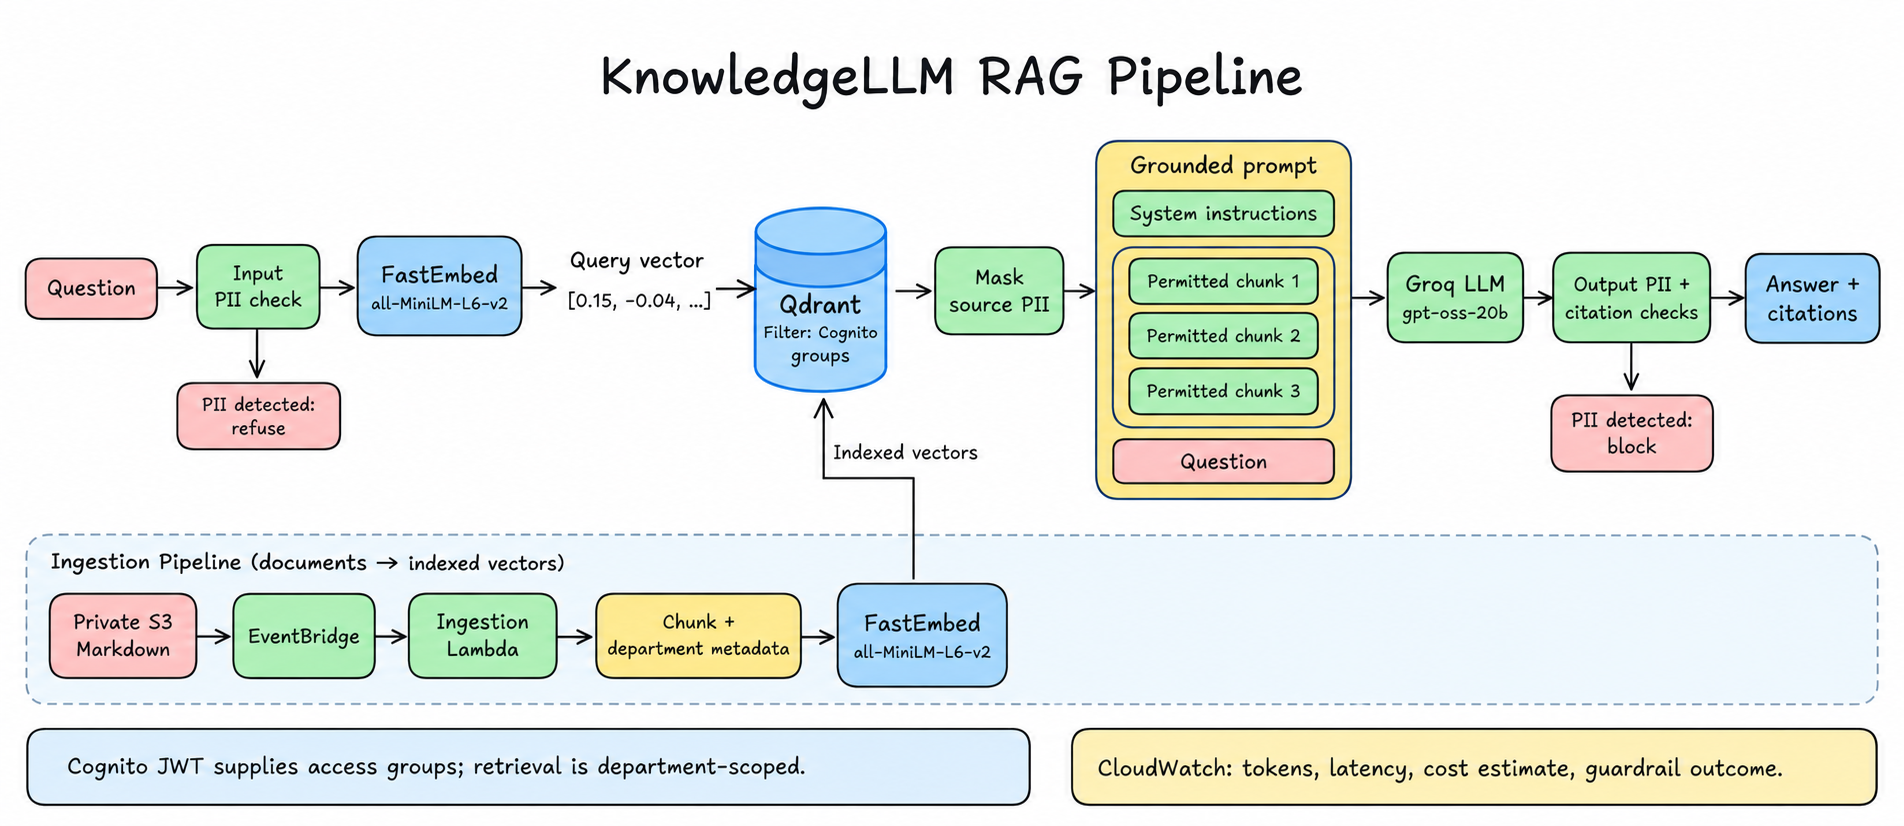
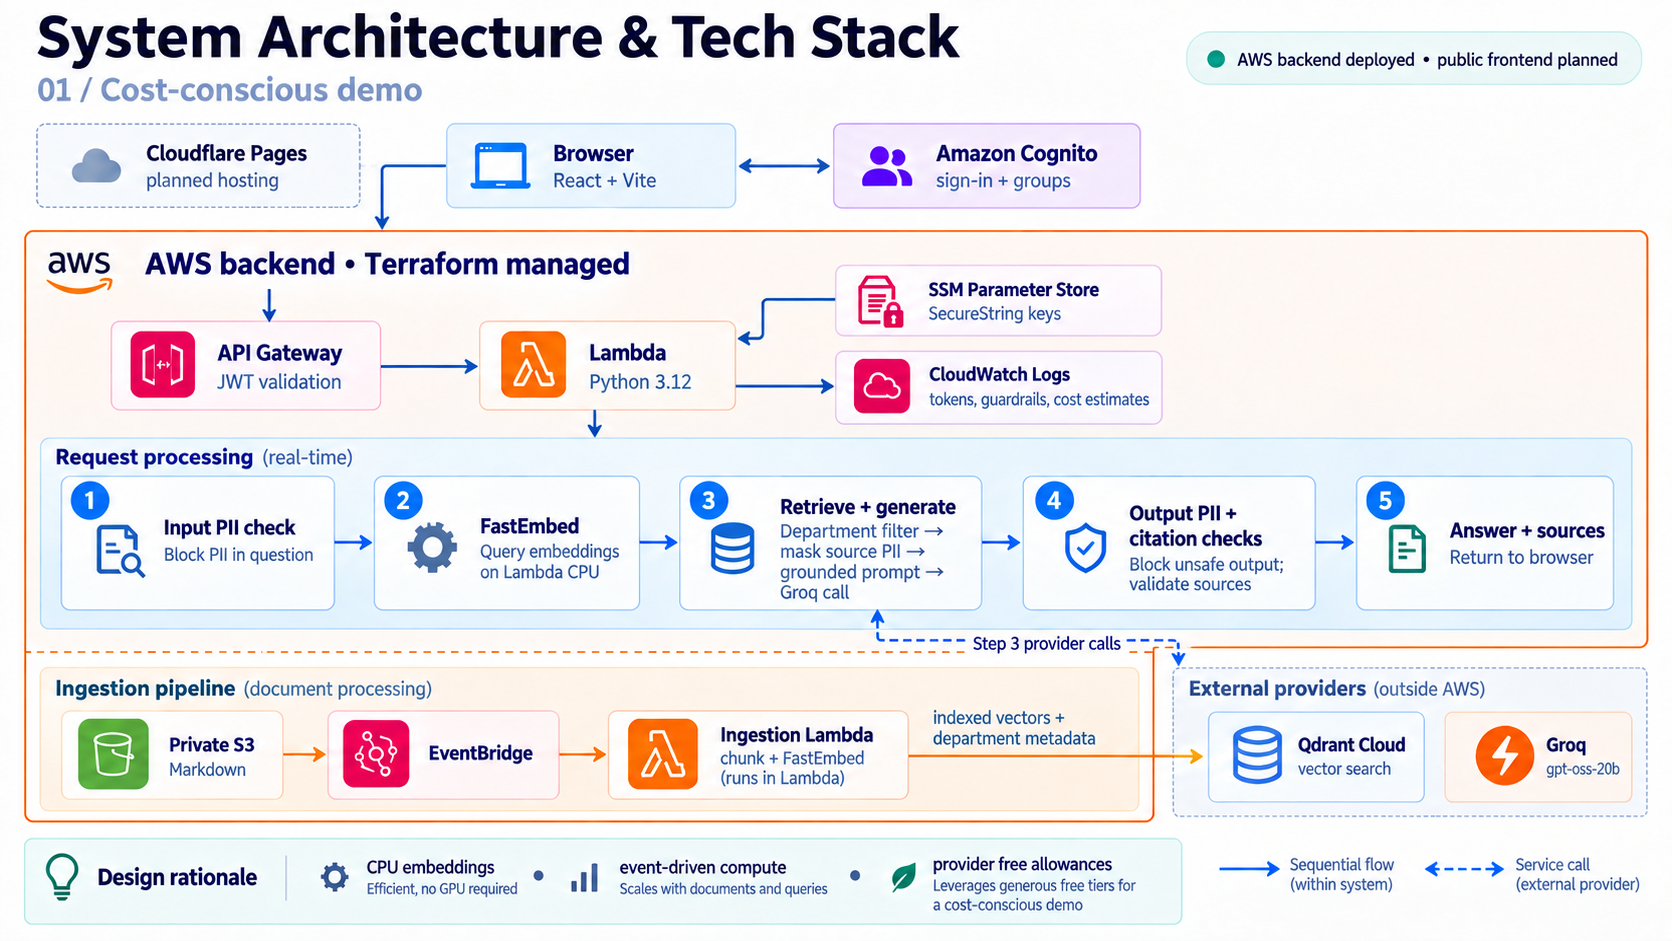
docs: compare cost-conscious and all-AWS architectures

diff --git a/README.md b/README.md
@@ -2,58 +2,132 @@
 
 🔐 KnowledgeLLM is a permission-aware knowledge assistant prototype. Cognito manages username/password sign-in; a Python API applies Cognito group access before listing S3 documents or retrieving Qdrant chunks. Answers cite only approved, retrieved documents. The included content is fictional.
 
-## RAG pipeline
+## System Architecture & Tech Stack
 
-![KnowledgeLLM RAG pipeline: a question passes PII checks, FastEmbed creates a query vector, Qdrant retrieves department-permitted chunks, and Groq generates an answer checked for PII and valid citations. A separate S3 ingestion flow indexes document chunks.](docs/design/architecture/knowledgellm-rag-pipeline.png)
+KnowledgeLLM has two architecture options. **Option A is the current cost-conscious demo**; **Option B is an all-AWS managed reference design**, with service choices driven by operational capabilities rather than free allowances. Option B is not deployed and does not replace the current stack.
 
-1. **Authorize:** Cognito signs in the user; API Gateway validates the JWT. The backend derives Finance, Operations, or People access from verified group claims.
-2. **Retrieve:** reject questions containing recognized PII patterns, embed the question with FastEmbed (`all-MiniLM-L6-v2`), and search Qdrant with department filters. The backend also checks retrieved document IDs against its approved catalog.
-3. **Generate:** mask recognized PII in retrieved text; send system instructions, permitted excerpts, and the question to Groq (`gpt-oss-20b`).
-4. **Return:** block PII in output and accept only citations to approved retrieved sources. Unsupported questions return a no-information response; provider failures return a service error.
-5. **Observe:** return the guardrail outcome and model usage to the UI, and log metadata to CloudWatch without question, answer, or source text. The displayed dollar value is a token-based estimate, not an invoice or the total AWS bill.
+### Option A — Cost-conscious demo
 
-Ingestion runs separately when approved Markdown files are created in S3. It chunks text, attaches department/source metadata, embeds it, and replaces that document's vectors in Qdrant. Query-time embedding and document embedding use the same model. The three chunks in the illustration are examples; retrieval requests up to five matches.
+The AWS backend is deployed in Singapore (`ap-southeast-1`). React/Vite runs locally today; Cloudflare Pages with a custom domain is planned. FastEmbed runs on Lambda CPU, Qdrant stores department-tagged vectors, and Groq generates grounded answers. The application owns chunking, access filters, PII patterns, and citation validation.
 
-## Deployment architecture
-
-The AWS backend is deployed in Singapore (`ap-southeast-1`) and managed by Terraform. The current demo uses a local React/Vite frontend; Cloudflare Pages and a custom domain are the planned public frontend deployment.
+![Cost-conscious KnowledgeLLM system architecture, showing AWS authentication and Lambda, external Qdrant and Groq, separate ingestion, and planned Cloudflare hosting.](docs/design/architecture/knowledgellm-rag-pipeline.png)
 
 ```text
-┌───────────────────────────────┐     ┌──────────────────────────────┐
-│ React/Vite browser            │  ⇄  │ Cognito user pool            │
-│ Local now · Pages planned     │     │ Sign-in + department groups  │
-└───────────────────────────────┘     └──────────────────────────────┘
-                │ Question + Cognito access token
-                ▼
-┌──────────────────────────────────────────────────────────────────┐
-│ API Gateway HTTP API · validate JWT                              │
-│ Knowledge Lambda · derive access from cognito:groups             │
-│                                                                  │
-│ Input PII check → FastEmbed query vector                         │
-│                          ↓                                       │
-│ Qdrant search · department filter → permitted chunks             │
-│                          ↓                                       │
-│ Mask source PII → system instructions + chunks + question        │
-│                          ↓                                       │
-│ Groq LLM → output PII check + validate citations → answer        │
-└──────────────────────────────────────────────────────────────────┘
-        │ Provider credentials          │ Safe telemetry
-        ▼                               ▼
-┌─────────────────────────────┐  ┌─────────────────────────────────┐
-│ SSM Parameter Store         │  │ CloudWatch Logs                 │
-│ SecureString · backend only │  │ Tokens · latency · guardrails   │
-└─────────────────────────────┘  │ Model cost estimate · 7 days    │
-                                 └─────────────────────────────────┘
+┌────────────────────────────────────────────────────────────────────────────┐
+│ 01  ENTRY · current demo                                                   │
+│                                                                            │
+│ React / Vite browser ⇄ Amazon Cognito (sign-in + groups)                   │
+│ Local frontend now · Cloudflare Pages / custom domain planned              │
+└────────────────────────────────────────────────────────────────────────────┘
+                         │
+                         ▼
+┌────────────────────────────────────────────────────────────────────────────┐
+│ 02  AWS API · Terraform managed                                            │
+│                                                                            │
+│ API Gateway validates JWT → Python 3.12 Lambda                             │
+│ Verified Cognito groups → server-enforced department access                │
+└────────────────────────────────────────────────────────────────────────────┘
+                         │
+                         ▼
+┌────────────────────────────────────────────────────────────────────────────┐
+│ 03  RAG · Lambda orchestrates the request                                  │
+│                                                                            │
+│ Input PII check → FastEmbed query vector (Lambda CPU)                      │
+│ Qdrant Cloud [external] → department-filtered source chunks                │
+│ Mask source PII → grounded prompt → Groq [external] LLM                    │
+│ Output PII + citation checks → answer + sources + guardrail status         │
+└────────────────────────────────────────────────────────────────────────────┘
 
-┌──────────────────────────────────────────────────────────────────┐
-│ Private S3 Markdown → EventBridge → ingestion Lambda             │
-│ Chunk text + department metadata → FastEmbed → Qdrant vectors    │
-│ Both Lambdas use /tmp for FastEmbed/Hugging Face caches.         │
-│ Authorized source links use short-lived S3 presigned URLs.       │
-└──────────────────────────────────────────────────────────────────┘
+┌────────────────────────────────────────────────────────────────────────────┐
+│ 04  INGESTION · separate event-driven flow                                 │
+│                                                                            │
+│ Private S3 Markdown → EventBridge → ingestion Lambda                       │
+│ Chunk + department metadata → FastEmbed → Qdrant Cloud vectors             │
+└────────────────────────────────────────────────────────────────────────────┘
+
+┌────────────────────────────────────────────────────────────────────────────┐
+│ 05  OPERATIONS · existing AWS services                                     │
+│                                                                            │
+│ SSM Parameter Store SecureString → backend provider keys                   │
+│ CloudWatch Logs → tokens, latency, guardrail outcome, cost estimates       │
+│ FastEmbed / Hugging Face caches → writable /tmp in each Lambda             │
+└────────────────────────────────────────────────────────────────────────────┘
 ```
 
-Pages serves static assets without a Docker container. Keep provider keys in the backend secret store; all `VITE_*` configuration is visible in the browser bundle. Cloudflare's static asset requests are free and unlimited, subject to other platform limits; AWS and external providers have separate charges. See [Pages pricing](https://developers.cloudflare.com/pages/functions/pricing/) and [Cloudflare setup](#cloudflare-pages-setup).
+**Why this design:** reuse provider free allowances, perform embeddings without a paid embedding API, and use event-driven compute with short log retention. [Qdrant offers a prototype free tier](https://qdrant.tech/pricing/); [Groq publishes Free-plan limits](https://console.groq.com/docs/rate-limits). AWS eligibility, quotas, storage, and account usage still affect billing. This is a low-cost target, not a guaranteed $0 deployment. The monitor's dollar value is an estimated inference cost, not a charge or the total AWS bill.
+
+### Option B — All-AWS managed reference
+
+**Proposed only.** Host React on Amplify, authenticate with Cognito, and keep orchestration in Lambda. Replace FastEmbed with Titan Text Embeddings V2, Qdrant with OpenSearch Serverless, and Groq with an Amazon Nova model on Bedrock. Knowledge Bases manages document parsing/chunking and retrieval; Step Functions plus Lambda starts and monitors ingestion jobs. [Amplify hosting](https://aws.amazon.com/amplify/hosting/), [Titan embeddings](https://docs.aws.amazon.com/bedrock/latest/userguide/model-card-amazon-titan-text-embeddings-v2.html).
+
+![Proposed all-AWS KnowledgeLLM architecture, with Amplify, Cognito, Lambda, Bedrock Knowledge Bases and Guardrails, Titan embeddings, OpenSearch Serverless, and AWS ingestion and operations services.](docs/design/architecture/knowledgellm-all-aws-architecture.png)
+
+```text
+┌────────────────────────────────────────────────────────────────────────────┐
+│ 01  ENTRY · proposed AWS hosting                                           │
+│                                                                            │
+│ Route 53 → Amplify Hosting (React frontend + managed HTTPS)                │
+│ Browser ⇄ Cognito (sign-in + department groups)                            │
+└────────────────────────────────────────────────────────────────────────────┘
+                         │
+                         ▼
+┌────────────────────────────────────────────────────────────────────────────┐
+│ 02  API & AUTHORIZATION                                                    │
+│                                                                            │
+│ API Gateway validates JWT → Lambda (RBAC + RAG orchestration)              │
+│ Lambda constructs department filters from verified Cognito groups          │
+└────────────────────────────────────────────────────────────────────────────┘
+                         │
+                         ▼
+┌────────────────────────────────────────────────────────────────────────────┐
+│ 03  MANAGED RAG · all service calls stay on AWS                            │
+│                                                                            │
+│ Bedrock Guardrails: input check                                            │
+│ Knowledge Bases Retrieve → Titan query embedding → OpenSearch              │
+│ Department-filtered chunks → explicit ApplyGuardrail source masking        │
+│ Grounded prompt → Bedrock Nova Pro → output Guardrails                     │
+│ Lambda validates source citations → answer + sources                       │
+└────────────────────────────────────────────────────────────────────────────┘
+
+┌────────────────────────────────────────────────────────────────────────────┐
+│ 04  INGESTION · proposed AWS orchestration                                 │
+│                                                                            │
+│ Private S3 files + metadata → EventBridge → Step Functions + Lambda        │
+│ Start / monitor Knowledge Bases ingestion → parse + chunk                  │
+│ Titan Text Embeddings V2 → OpenSearch Serverless vector index              │
+└────────────────────────────────────────────────────────────────────────────┘
+
+┌────────────────────────────────────────────────────────────────────────────┐
+│ 05  SECURITY & OPERATIONS                                                  │
+│                                                                            │
+│ IAM roles + enforced guardrails · KMS encryption                           │
+│ CloudWatch metrics / logs · X-Ray traces · CloudTrail audit events         │
+└────────────────────────────────────────────────────────────────────────────┘
+```
+
+**Access and privacy:** Lambda derives the retrieval filter from verified Cognito groups; callers cannot choose their own department permissions. Use `Retrieve` for controlled source processing, apply Guardrails explicitly to input and retrieved excerpts, then generate with Bedrock and check output/citations. Configure numbered guardrail versions and enforce inference guardrail use through IAM. Guardrails do not grant document access. [Knowledge Bases metadata filters](https://docs.aws.amazon.com/bedrock/latest/userguide/kb-test-config.html), [Bedrock Guardrails](https://docs.aws.amazon.com/bedrock/latest/userguide/guardrails.html), [IAM enforcement](https://docs.aws.amazon.com/bedrock/latest/userguide/guardrails-permissions-id.html).
+
+**Cost and readiness:** this design adds managed inference, embeddings, guardrail evaluation, vector capacity/storage, hosting, and orchestration costs. Check region/model availability, quotas, retrieval quality, and a Terraform plan before considering deployment. Nova Pro is an illustrative model choice, not a provisioned model. [Bedrock pricing](https://aws.amazon.com/bedrock/pricing/), [OpenSearch pricing](https://aws.amazon.com/opensearch-service/pricing/).
+
+### Tech stack comparison
+
+| Layer | Option A: current low-cost demo | Option B: proposed all-AWS design |
+| --- | --- | --- |
+| Web client | React, TypeScript, Vite | Same frontend on Amplify Hosting |
+| Public hosting / domain | Cloudflare Pages planned | Amplify, Route 53, managed HTTPS |
+| Identity / API | Cognito, API Gateway HTTP API | Cognito, API Gateway HTTP API |
+| Backend | Python 3.12 Lambda | Lambda orchestration |
+| Document storage | Private S3 | Private S3 + document metadata |
+| Ingestion | EventBridge + Lambda chunking | EventBridge + Step Functions/Lambda + Knowledge Bases |
+| Embeddings | FastEmbed / all-MiniLM-L6-v2 on CPU | Bedrock Titan Text Embeddings V2 |
+| Retrieval | Qdrant Cloud + department filters | Knowledge Bases + OpenSearch Serverless + filters |
+| Generation | Groq / gpt-oss-20b | Bedrock / Amazon Nova Pro (example) |
+| Privacy | Application regex checks / masking | Bedrock Guardrails + application validation |
+| Credentials / encryption | SSM SecureString, IAM, S3 encryption | IAM roles for AWS calls, KMS encryption |
+| Observability | CloudWatch Logs, UI estimates | CloudWatch, X-Ray, CloudTrail |
+| Infrastructure | Terraform under `infra/terraform/` | Terraform required before deployment; not implemented |
+
+Both designs use the same principle: **question → authorized retrieval → permitted context → grounded generation → checked answer with sources**. Ingestion embeds source documents separately, using the same embedding model as retrieval. Unsupported questions return a no-information response; provider failures return a service error.
 
 ## Local development
 
